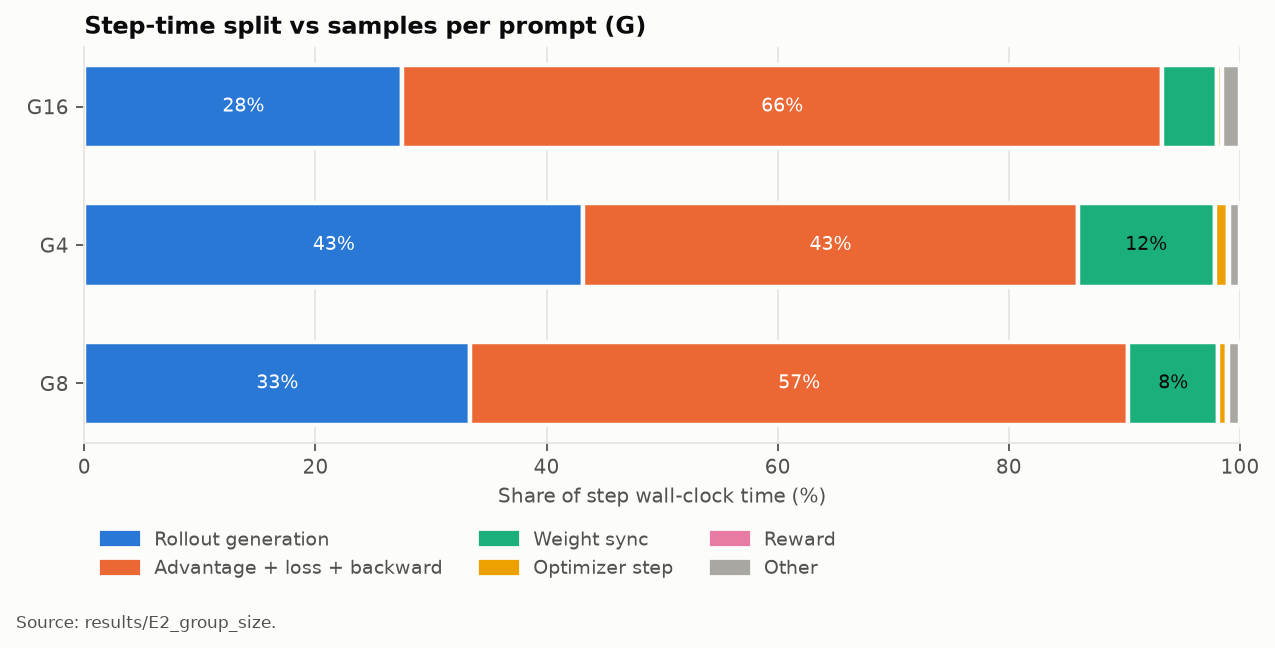
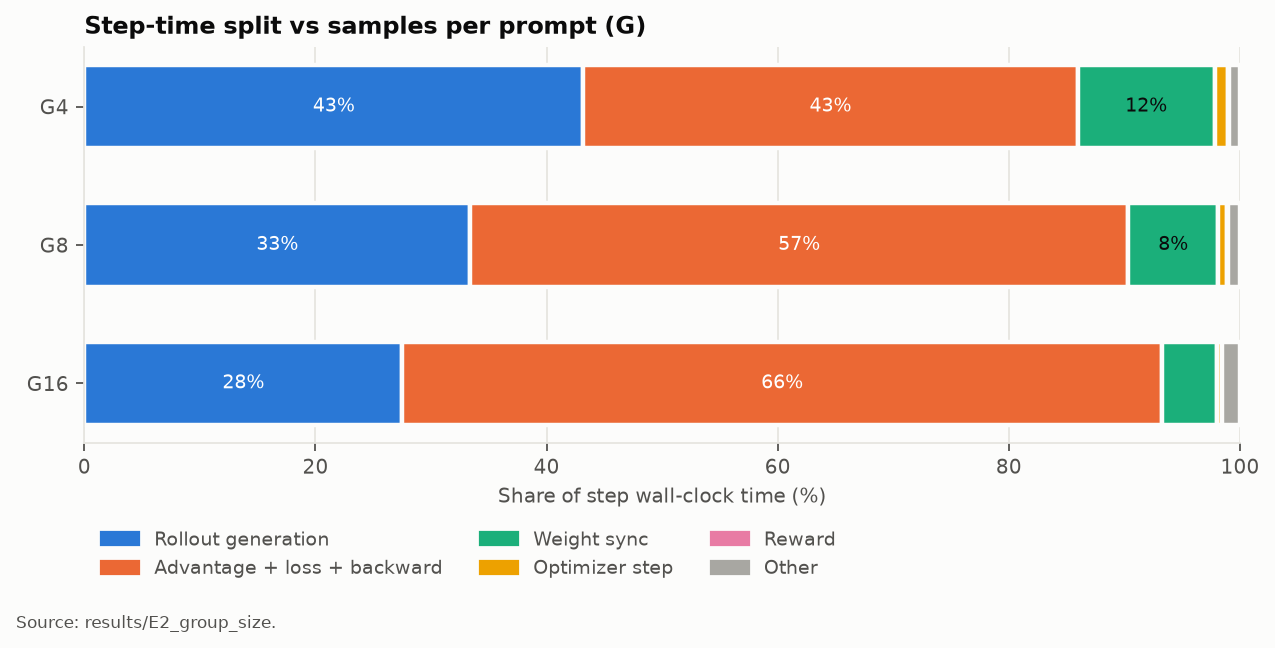
Charts: natural arm order (G4 < G8 < G16) and plain thousands labels

diff --git a/rlstudy/plots.py b/rlstudy/plots.py
@@ -105,7 +105,7 @@ def sweep(points: list[tuple[float, dict]], out: Path, title: str, xlabel: str, 
     ax.errorbar(xs, mean, yerr=[lo, hi], color=SERIES, linewidth=2, marker="o", markersize=7,
                 markeredgecolor=SURFACE, markeredgewidth=2, capsize=3, elinewidth=1)
     for x, m, p in zip(xs, mean, pts):
-        ax.annotate(f"{m:,.3g}", (x, m), textcoords="offset points", xytext=(9, 4), ha="left",
+        ax.annotate(f"{m:,.0f}" if abs(m) >= 100 else f"{m:.3g}", (x, m), textcoords="offset points", xytext=(9, 4), ha="left",
                     fontsize=8.5, color=INK)
     if log_x:
         ax.set_xscale("log", base=2)
@@ -154,8 +154,13 @@ def reward_curve(run_dirs: list[Path], out: Path, title: str, key: str = "reward
     return out
 
 
+def _natural_key(name: str):
+    """Sort arm names like G4 < G8 < G16 and len128 < len512, not alphabetically."""
+    import re
+
+    return [int(t) if t.isdigit() else t for t in re.split(r"(\d+)", name)]
+
+
 def load_arms(exp_dir: Path) -> dict[str, dict]:
-    return {
-        p.parent.name: json.loads(p.read_text())
-        for p in sorted(Path(exp_dir).glob("*/arm_summary.json"))
-    }
+    paths = sorted(Path(exp_dir).glob("*/arm_summary.json"), key=lambda p: _natural_key(p.parent.name))
+    return {p.parent.name: json.loads(p.read_text()) for p in paths}

diff --git a/tests/test_plots.py b/tests/test_plots.py
@@ -20,3 +20,10 @@ def test_plots_render(tmp_path):
     p3 = reward_curve(sorted((exp / "G8").glob("rep*")), tmp_path / "r.png", "Synthetic reward")
     for p in (p1, p2, p3):
         assert p.stat().st_size > 5000
+
+
+def test_arm_order_is_natural():
+    from rlstudy.plots import _natural_key
+
+    assert sorted(["G16", "G4", "G8"], key=_natural_key) == ["G4", "G8", "G16"]
+    assert sorted(["sync16", "sync1", "sync4"], key=_natural_key) == ["sync1", "sync4", "sync16"]
